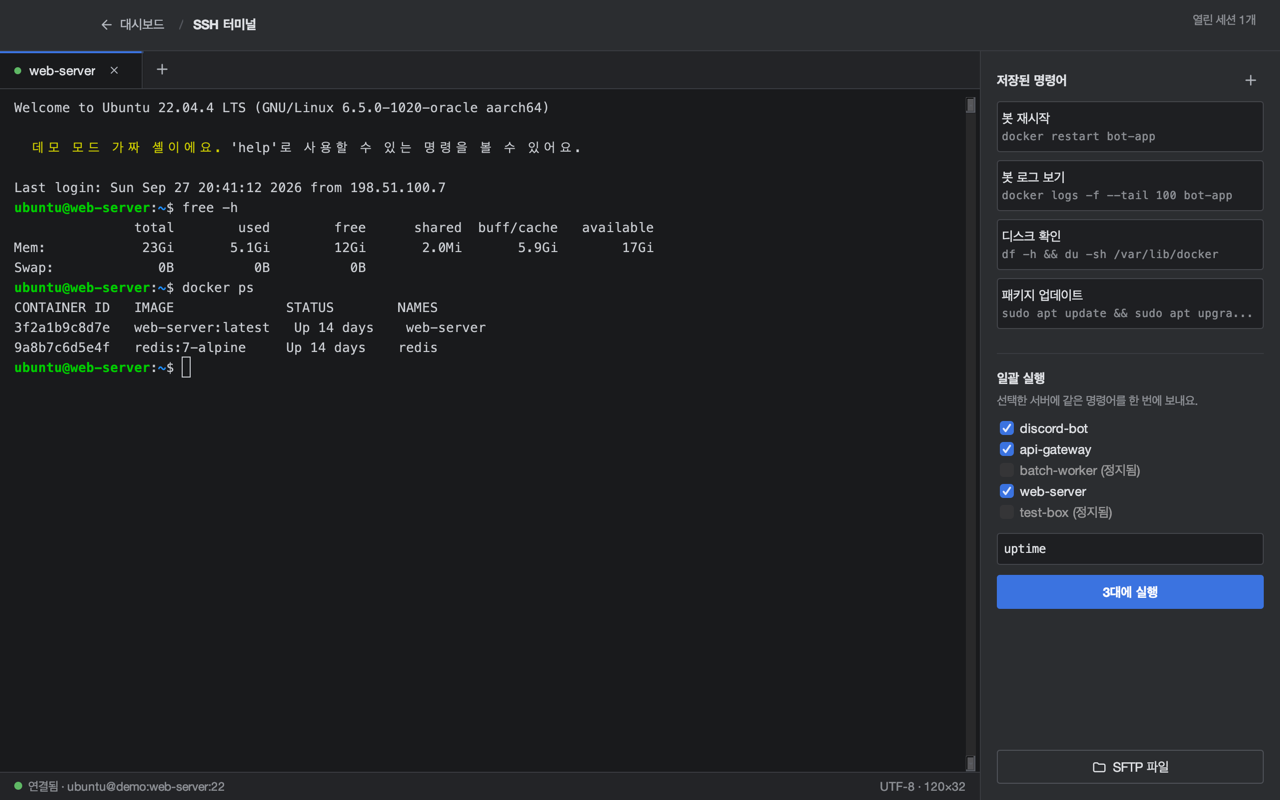
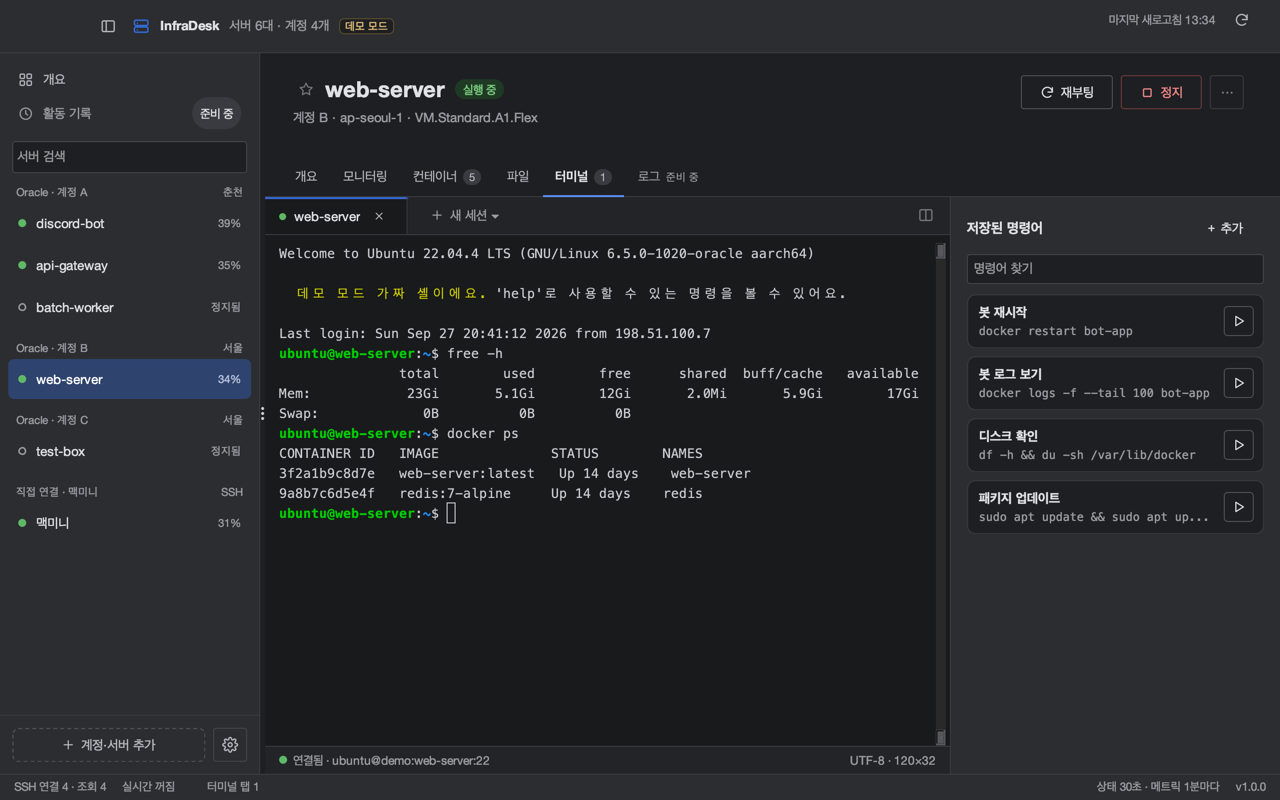
화면 설명을 README에서 docs/FEATURES.md로 분리
- docs/FEATURES.md: 화면별 기능 안내와 스크린샷
- README: 주요 기능을 요약으로 줄이고 개요·모니터링·컨테이너 화면만 소개
- docs/images: 디자인 v2 화면으로 스냅샷 교체
- CLAUDE.md: 화면 변경 시 FEATURES.md도 고치는 규칙 추가

diff --git a/docs/FEATURES.md b/docs/FEATURES.md
@@ -1,0 +1,111 @@
+# 기능 안내
+
+InfraDesk의 화면과 기능을 화면별로 설명해요. 설치와 처음 설정은 [README](../README.md)에 있어요.
+
+> 스크린샷은 모두 [데모 모드](../README.md#데모-모드)의 가짜 데이터예요. 실제 서버 정보는 들어 있지 않아요.
+
+| 화면 | 한 줄 요약 |
+|---|---|
+| [개요](#개요) | 모든 서버를 카드로 한눈에 |
+| [서버 정보](#서버-정보) | 서버 하나의 업타임·OS·디스크·열린 포트 |
+| [모니터링](#모니터링) | CPU·메모리·네트워크 그래프와 실시간 모드 |
+| [컨테이너](#컨테이너) | Docker 컨테이너 목록, 로그, 셸과 DB 콘솔 |
+| [파일](#파일) | 내 컴퓨터와 서버 사이 SFTP 파일 관리 |
+| [터미널](#터미널) | 서버별 SSH 터미널과 저장된 명령어 |
+| [설정](#설정) | 자동 실행, 조회 주기, 업데이트 |
+| [메뉴 막대 아이콘](#메뉴-막대-아이콘) | 창을 닫아도 서버 상태 확인 |
+| [아직 준비 중인 것](#아직-준비-중인-것) | 화면에 "준비 중"으로 보이는 항목 |
+
+## 개요
+
+![개요](images/overview.png)
+
+앱을 열면 가장 먼저 보이는 화면이에요. 계정과 직접 연결한 서버가 모두 카드 하나씩 나와요.
+
+- 맨 위 네 칸: 실행 중인 서버 수, 평균 CPU, 실행 중인 컨테이너 수.
+- 서버 카드: 상태, CPU·메모리·디스크 사용률, 컨테이너 수와 멈춘 수, 업타임. 사용률이 85%를 넘으면 숫자가 경고 색으로 바뀌어요.
+- 카드의 **SSH · 파일 · 모니터링** 버튼은 그 서버의 해당 탭으로 이동만 해요. 버튼을 누른다고 바로 접속하지는 않아요.
+- 정지된 서버 카드에는 **시작** 버튼이 있어요. 켜지는 데 보통 1~2분 걸려요.
+- 위쪽 칩으로 전체 / 실행 중 / 정지 서버만 거를 수 있고, 왼쪽 사이드바에서 계정별로 묶인 서버를 검색할 수 있어요.
+
+## 서버 정보
+
+서버를 고르면 나오는 **개요** 탭이에요. 업타임, OS, 디스크 사용량, 열린 포트를 SSH로 읽어서 보여줘요.
+
+서버 화면 위쪽에는 상태 배지와 **재부팅 · 정지** 버튼이 있어요. 정지와 재부팅은 되돌리기 어려우니 항상 확인 창을 거쳐요. 직접 연결한 서버에는 켜고 끄는 버튼이 없어요.
+
+## 모니터링
+
+![모니터링 — 1시간](images/monitoring.png)
+
+CPU, 메모리, 네트워크(수신·송신)를 그래프로 보여줘요.
+
+- 기간: **실시간 · 1시간 · 6시간 · 24시간 · 7일**. OCI 서버는 OCI Monitoring에서 1분 간격으로 읽어요. 직접 연결 서버는 SSH로 1분마다 읽고, 1시간만 볼 수 있어요.
+- 그래프 위에서 마우스 휠로 확대·축소, 드래그로 이동, 더블 클릭으로 처음 범위로 돌아가요. 세 그래프는 마우스가 가리키는 시각을 함께 보여줘요.
+- 오른쪽에 이 기간의 평균·최대(와 그 시각), 디스크 사용량, CPU 알림 기준이 나와요.
+
+![모니터링 — 실시간](images/monitoring-live.png)
+
+**실시간**을 고르면 SSH로 서버의 `/proc`을 2초마다 읽어서 그려요. 켜 둔 걸 잊어도 SSH를 계속 읽지 않도록 10분 뒤에 저절로 꺼져요.
+
+## 컨테이너
+
+![컨테이너](images/containers.png)
+
+서버에 Docker가 있으면 **컨테이너** 탭에서 다룰 수 있어요. 모든 동작은 SSH로 `docker` 명령을 실행하는 방식이에요. Docker 포트(2375)는 열지 않아요.
+
+- 목록: 이름, 이미지, 상태, CPU, 메모리, 네트워크, 포트. 전체 / 실행 중 / 멈춤으로 거르고 이름·이미지로 찾아요.
+- 행마다 컨테이너 안 **셸**, **DB 콘솔**(MySQL · PostgreSQL · Redis · MongoDB), **재시작**, **정지/시작** 버튼이 있어요.
+- 아래 로그 패널: 컨테이너를 골라 최근 로그를 보고, 경고·오류만 거르고, 글자로 찾아요. **자동 새로고침**을 켜면 10초마다 다시 읽어요(기본은 꺼짐). 별도 창으로 크게 열 수도 있어요.
+- 목록은 계속 읽지 않아요. 서버를 고를 때, 새로고침을 누를 때, 컨테이너를 조작한 뒤에만 읽어요.
+- `docker`를 쓰려면 서버에서 docker 그룹이거나 비밀번호 없는 `sudo`가 되어야 해요. 자세한 조건은 [README 호환성](../README.md#호환성)에 있어요.
+
+## 파일
+
+![파일](images/files.png)
+
+왼쪽 **내 컴퓨터**와 오른쪽 **서버**를 나란히 두고 SFTP로 파일을 옮겨요.
+
+- 파일을 끌어다 놓으면 업로드·다운로드돼요. Finder·탐색기에서 서버 쪽으로 끌어와도 올라가요.
+- 끊긴 전송은 이어받아요. 아래 **전송** 목록에서 진행률, 속도, 남은 시간을 보고 취소하거나 다시 시도해요.
+- 새 폴더·새 파일, 이름 바꾸기(F2), 권한 변경(읽기·쓰기·실행 체크 또는 숫자 입력), 삭제. 삭제는 확인을 거쳐요.
+- 서버 파일을 **편집**하면 내 컴퓨터의 편집기로 열어요. 편집기에서 저장하면 서버에 자동으로 올라가고, 위쪽 배너에서 편집을 끝낼 수 있어요.
+- 서버 쪽의 **숨김 파일** 버튼으로 점으로 시작하는 파일을 보이거나 숨겨요.
+
+## 터미널
+
+![터미널](images/terminal.png)
+
+서버별로 SSH 터미널을 열어요.
+
+- 처음 **접속**을 누르면 사용자 이름과 SSH 키를 정하는 창이 떠요. `~/.ssh/config`에 그 서버가 있으면 값이 미리 채워져요.
+- 처음 보는 서버는 호스트 키 지문을 확인하고, 이후에는 키가 바뀌었을 때만 경고해요.
+- **＋ 새 세션**에서 서버의 새 셸이나 실행 중인 컨테이너의 셸·DB 콘솔을 열어요.
+- 오른쪽 **저장된 명령어**: 자주 쓰는 명령을 카드로 저장해 두고 ▶를 누르면 열려 있는 터미널에 보내요. 우클릭으로 편집·삭제해요.
+- 다른 서버로 옮겨도 터미널 세션은 닫히지 않고 숨어 있다가, 돌아오면 그대로 보여요.
+
+## 설정
+
+![설정 — 연결·조회](images/settings.png)
+
+사이드바 아래 톱니바퀴로 열어요. 바꾼 설정은 바로 저장돼요.
+
+- **일반**: 로그인할 때 자동 실행.
+- **연결·조회**: 서버 상태(30초)·메트릭(1분) 조회 주기, 실시간 자동 꺼짐(10분), SSH 연결 새로 맺기(12시간)를 보여줘요. 지금 열려 있는 SSH 연결도 볼 수 있어요. 값은 OCI API 요청 제한을 고려해 정한 것이라 앱에서 바꾸지는 않아요.
+- **보안·안전**: 비밀값을 어디에 어떻게 저장하는지(`secrets.vault`, AES-256-GCM, 키는 OS 키체인). 자세한 내용은 [README 보안과 데이터](../README.md#보안과-데이터).
+- **업데이트·정보**: 버전, 업데이트 확인, 로그 폴더, 오픈소스 라이선스.
+
+## 메뉴 막대 아이콘
+
+창을 닫아도 앱은 종료되지 않고 메뉴 막대(macOS) / 알림 영역(Windows)에 남아요. 아이콘 메뉴에서 서버 상태를 보고 바로 제어할 수 있고, 새 버전이 나오면 여기에서 알려줘요. 창이 숨어 있는 동안에는 SSH 연결을 조회용 하나만 남겨요.
+
+## 아직 준비 중인 것
+
+화면에 **준비 중** 배지로 보이는 항목이에요. 눌러도 동작하지 않아요.
+
+- 디스코드 알림 (서버 멈춤, 계정 연결 끊김, CPU 고사용)
+- 개요의 "확인이 필요해요", 활동 기록, 서버 목록 보기 방식
+- 서버 화면의 로그 탭
+- AWS, GCP 계정
+
+현재 구현 현황은 [PRD](PRD.md)의 "현재 상태"를 따라요.

diff --git a/README.md b/README.md
@@ -12,30 +12,28 @@
 <p align="center">
   <a href="https://github.com/kimdongwoo0930/infra-desk/releases/latest"><b>⬇ 다운로드</b></a> ·
   <a href="#처음-설정">처음 설정</a> ·
+  <a href="docs/FEATURES.md">기능</a> ·
   <a href="#데모-모드">데모 모드</a> ·
   <a href="docs/ARCHITECTURE.md">구조</a>
 </p>
 
-![대시보드](docs/images/main.png)
+![개요](docs/images/overview.png)
 
 ## 주요 기능
 
-- **계정 여러 개를 한 화면에** — OCI 계정(테넌시)마다 API 키를 등록하면 서버를 자동으로 불러와 계정별로 보여줘요.
-- **직접 연결 서버** — 맥미니, 집 서버처럼 클라우드가 아닌 컴퓨터도 주소와 SSH 키만으로 추가해요. 응답 여부로 상태를 보여 주고, CPU·메모리·네트워크는 SSH로 1분마다 읽어 그래프로 보여 줘요. 터미널·SFTP·Docker·실시간 모드도 똑같이 써요(켜고 끄기는 없음). Linux·macOS 지원.
-- **상태와 제어** — 실행 중 / 정지 / 변경 중 상태를 자동 새로고침(평소 45초, 시작·정지 직후 5초)으로 보여주고, 시작·정지·재부팅은 확인 후 실행해요.
-- **모니터링** — CPU·메모리·네트워크 최근 1시간 그래프(OCI Monitoring), SSH로 2초마다 읽는 실시간 모드.
-- **SSH 터미널** — 서버별 탭, 저장된 명령어, SFTP 파일 탐색기. `~/.ssh/config`에서 사용자·키를 자동으로 가져와요.
-- **서버 정보** — 업타임, OS, 디스크 사용량, 열린 포트(SSH로 확인).
-- **Docker 컨테이너** — 컨테이너 목록·상태·CPU·메모리·포트, 로그 보기(경고·오류 거르기, 검색, 10초마다 자동 새로고침), 시작·정지·재시작, 컨테이너 안 셸과 DB 콘솔(MySQL·PostgreSQL·Redis·MongoDB). SSH로만 접근하고 Docker 포트는 열지 않아요.
-- **메뉴 막대 아이콘** — 창을 닫아도 메뉴 막대에서 서버 상태를 보고 바로 제어할 수 있어요. 로그인할 때 자동 실행도 가능.
-- **디스코드 알림** (준비 중) — 서버가 예상치 않게 멈추거나, 계정 연결이 끊기거나, CPU가 높게 유지될 때.
-- **안전하게** — 키·비밀번호는 암호화해서 이 PC에만 저장, 공인 IP는 기본으로 가려서 표시, 로그에서도 비밀값을 가려요.
+- **계정 여러 개를 한 화면에** — OCI 계정마다 API 키를 등록하면 서버를 자동으로 불러와 계정별로 보여줘요. 맥미니·집 서버 같은 직접 연결 서버도 주소와 SSH 키만으로 함께 관리해요.
+- **상태와 제어** — 실행 중 / 정지 상태를 자동으로 새로고침하고, 시작·정지·재부팅은 확인 후 실행해요.
+- **모니터링** — CPU·메모리·네트워크 그래프와, SSH로 2초마다 읽는 실시간 모드.
+- **SSH 터미널 · SFTP 파일** — 서버별 터미널 탭, 저장된 명령어, 끌어다 놓는 파일 전송과 편집.
+- **Docker 컨테이너** — 목록·로그·시작/정지, 컨테이너 안 셸과 DB 콘솔. SSH로만 접근하고 Docker 포트는 열지 않아요.
+- **메뉴 막대 아이콘** — 창을 닫아도 서버 상태를 보고 바로 제어할 수 있어요.
+- **안전하게** — 키·비밀번호는 암호화해서 이 PC에만 저장하고, 로그에서도 비밀값을 가려요.
 
-| 모니터링 · 실시간 | SSH 터미널 |
+| 모니터링 · 실시간 | 컨테이너 |
 |---|---|
-| ![실시간 모니터링](docs/images/main-live.png) | ![SSH 터미널](docs/images/terminal.png) |
-| **SFTP 파일** | **설정 — 자동 실행 · 앱 정보 · 디스코드 알림** |
-| ![SFTP](docs/images/sftp.png) | ![설정](docs/images/settings.png) |
+| ![실시간 모니터링](docs/images/monitoring-live.png) | ![컨테이너](docs/images/containers.png) |
+
+화면별 설명은 **[기능 안내](docs/FEATURES.md)**에 있어요: [개요](docs/FEATURES.md#개요) · [모니터링](docs/FEATURES.md#모니터링) · [컨테이너](docs/FEATURES.md#컨테이너) · [파일](docs/FEATURES.md#파일) · [터미널](docs/FEATURES.md#터미널) · [설정](docs/FEATURES.md#설정)
 
 > 스크린샷은 모두 [데모 모드](#데모-모드)의 가짜 데이터예요.
 
@@ -152,7 +150,7 @@ Java 25가 필요해요 (Gradle은 Wrapper 포함).
 ```
 
 스택: Swing + FlatLaf, Apache MINA SSHD, JediTerm, OCI Java SDK, XChart, jpackage.
-문서: [구조](docs/ARCHITECTURE.md) · [개발 기록](docs/DEVLOG.md) · [디자인](docs/design/DESIGN.md)
+문서: [기능](docs/FEATURES.md) · [구조](docs/ARCHITECTURE.md) · [개발 기록](docs/DEVLOG.md) · [디자인](docs/design/DESIGN.md)
 
 ## 라이선스
 

diff --git a/docs/DEVLOG.md b/docs/DEVLOG.md
@@ -4,6 +4,27 @@
 
 ---
 
+## 2026-10-29 · 화면 설명을 README에서 `docs/FEATURES.md`로 분리
+
+브랜치 `docs/readme-features`. 코드는 바꾸지 않았다. README "주요 기능"이 항목마다 길어지고(Docker 항목이 4줄) 스크린샷 표까지 있어서 읽기 어려웠다.
+
+**결정 (사용자)**
+- 화면 설명은 `docs/FEATURES.md` 한 파일에 화면별 섹션으로 둔다(화면마다 파일을 나누지 않는다. 한 화면이 길어지면 그때 `docs/features/`로 나누고 FEATURES.md를 목차로 바꾼다).
+- README에는 메인(개요) 화면과 중요한 화면 몇 개(모니터링 실시간, 컨테이너)만 소개하듯 남기고, 나머지는 FEATURES로 링크한다.
+
+**한 일**
+- `docs/FEATURES.md` 새로 작성: 개요, 서버 정보, 모니터링, 컨테이너, 파일, 터미널, 설정, 메뉴 막대 아이콘, 아직 준비 중인 것. 화면마다 스크린샷 하나와 짧은 설명.
+- README: 상단 링크 바와 하단 "문서:" 줄에 기능 안내 추가, "주요 기능"을 한 줄 요약으로 줄이고 스크린샷은 개요 + 2장(모니터링 실시간, 컨테이너)만 남겼다.
+- 스크린샷을 디자인 v2 화면으로 새로 찍어(`./gradlew snapshot`, 1280px) `docs/images/`에 교체·추가: `overview`, `monitoring`, `monitoring-live`, `containers`, `files`, `terminal`, `settings`(연결·조회). 옛 `main.png`, `main-live.png`, `sftp.png`는 지웠다. `add-account.png`는 최신과 같아서 그대로 둔다.
+- 설정 스크린샷은 동작하는 "연결·조회"를 골랐다(알림·보안 페이지는 "준비 중" 배지가 많다).
+- CLAUDE.md: 화면·기능이 바뀌면 FEATURES.md와 스크린샷도 같이 고친다는 규칙 추가.
+
+**남은 일 / 알아 둘 것**
+- 파일 탭 스냅샷의 "내 컴퓨터" 경로가 데모용 임시 폴더(`/var/folders/…/infradesk-demo-…`)로 나온다. 개인 정보는 아니지만 보기 좋지 않다. 데모 모드의 내 컴퓨터 폴더를 홈 모양 경로로 보이게 하는 건 따로 할 일이다.
+- FEATURES.md 본문은 README·PRD·`ui.md`와 스냅샷에서 확인되는 것만 썼다. 앱을 직접 눌러 보며 어긋난 설명이 없는지 한 번 읽어 보면 좋다.
+
+---
+
 ## 2026-10-27 · 베타를 끝내고 정식 릴리스 1.0.0으로
 
 브랜치 `release/1.0.0`. 롤링 `beta` 릴리스(빌드 번호 비교)를 없애고 정식 릴리스(`v1.0.0`부터, GitHub "latest", 버전 번호 비교)로 바꿨다. 이미 설치된 베타 앱은 재다운로드 없이 평소처럼 앱 안 업데이트로 1.0.0이 된다.

diff --git a/CLAUDE.md b/CLAUDE.md
@@ -53,6 +53,7 @@ app/              진입점, 구성 요소 조립
 ## 조회 주기
 폴링 주기는 `docs/PRD.md`의 "조회 주기"를 따른다. OCI API 요청 제한을 고려해 그보다 과도하게 폴링하지 않는다.
 주기를 바꾸면 PRD와 README를 같이 고친다.
+화면이나 기능이 바뀌면 `docs/FEATURES.md`(화면별 사용자 안내)와 그 스크린샷(`docs/images/`, `./gradlew snapshot`으로 만든 1280px 데모 화면)도 같이 고친다.
 
 ## 현재 상태와 계획
 구현 현황과 다음 계획은 `docs/PRD.md`의 "현재 상태"와 노션 「아이디어」 페이지(아래 "아이디어 논의")를 따른다.
